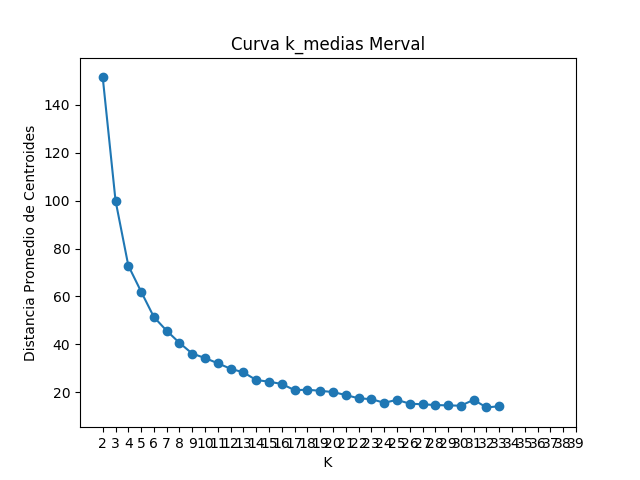
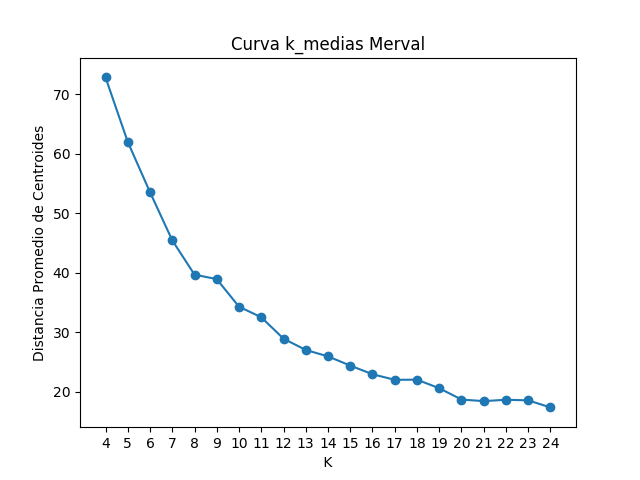
guia2

diff --git a/Práctica/Guia 2/k_medias.py b/Práctica/Guia 2/k_medias.py
@@ -84,12 +84,12 @@ def k_medias_tol(data, indexs, k, tol = 0.1, iterMaxTol = 200, iterMaxConv = 200
     return  centroidesMin, distanciaMin, gruposCentroidesMin
 
 
-def gauss_k_medias(data, centroides, k):
+def gauss_k_medias(data, centroides, k, var = 1):
     
     H = data.shape[0]
     transfGauss = np.zeros((H,k))
     for i, centroide in enumerate(centroides):
-        transfGauss[:, i] = np.exp(-0.5 * np.linalg.norm((data[:, :] - centroide), axis = 1) ** 2 )
+        transfGauss[:, i] = np.exp(-0.5 * (np.linalg.norm((data[:, :] - centroide), axis = 1) ** 2) * (1/100) )
 
     return transfGauss 
 

diff --git a/Práctica/Guia 2/transfGaussiana_k_medias_merval.py b/Práctica/Guia 2/transfGaussiana_k_medias_merval.py
@@ -13,7 +13,7 @@ H, W = inData.shape
 indexs = np.arange(0, H, 1)
 np.random.shuffle(indexs)
 
-k = 4
+k = 14
 
 centroides, distancia, _ = km.k_medias_tol(inData,indexs, k, 0.05, 500)
 

diff --git a/Práctica/Guia 2/k_medias_merval.py b/Práctica/Guia 2/k_medias_merval.py
@@ -15,8 +15,8 @@ H = inData.shape[0]
 indexs = np.arange(0, H, 1)
 np.random.shuffle(indexs)
 
-minK = 24
-maxK = 35
+minK = 4
+maxK = 25
 
 distPromV = np.ones((maxK-minK,1))
 
